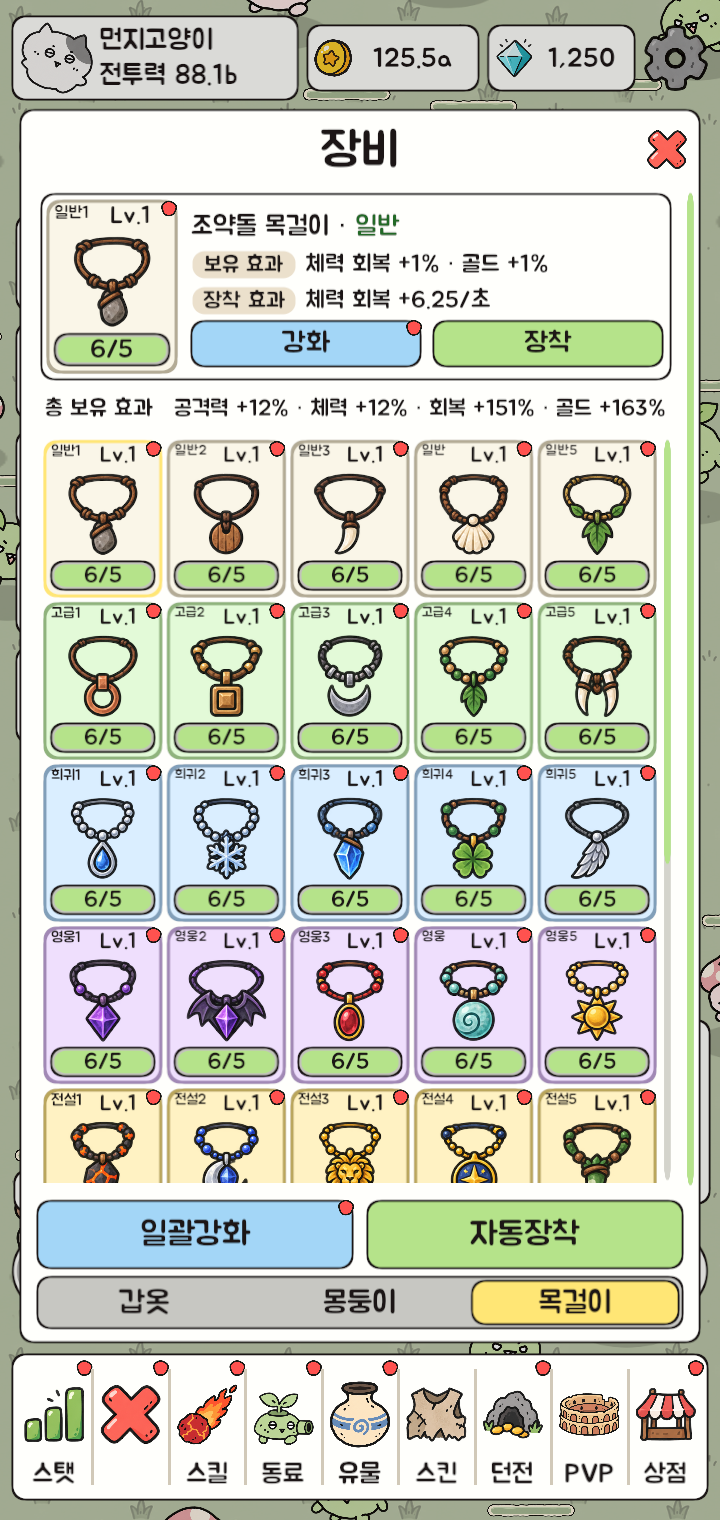
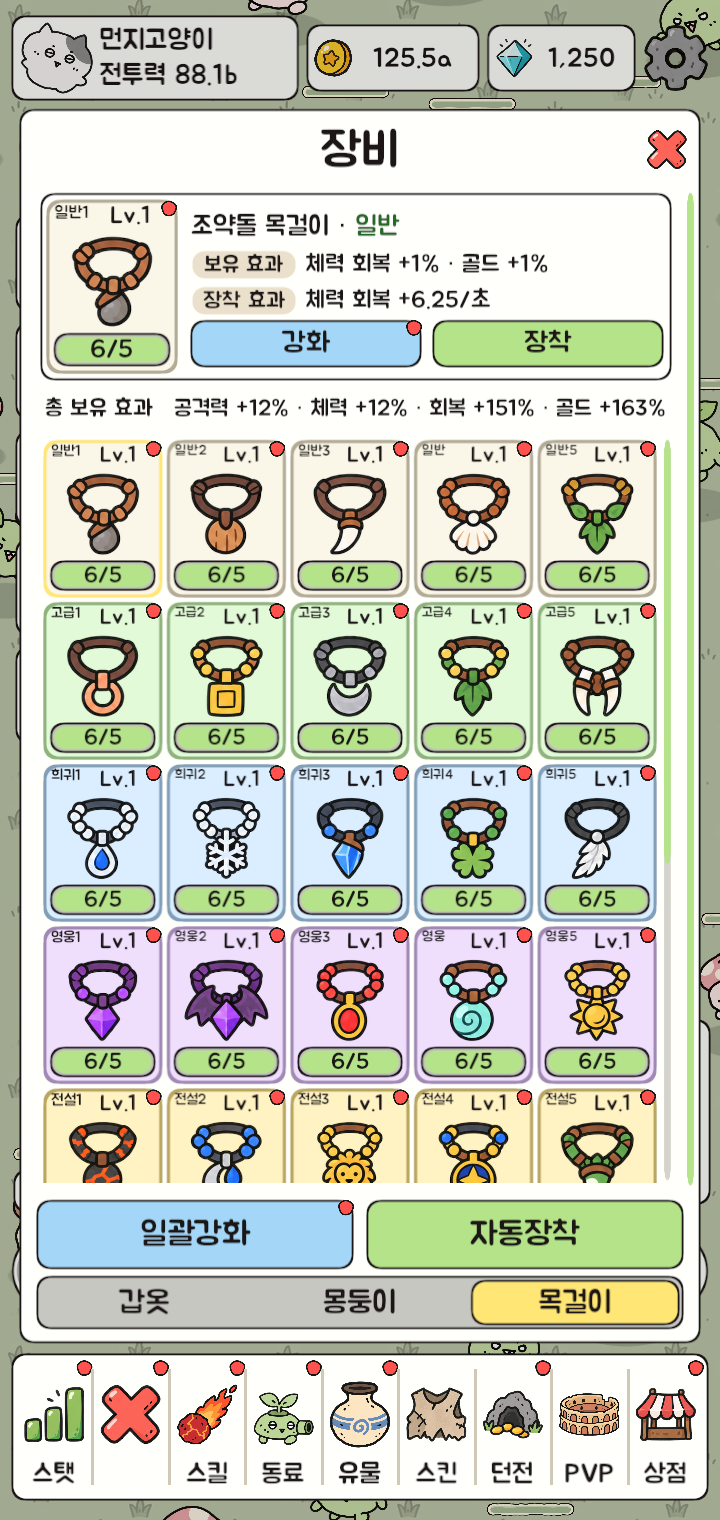
Record necklace and skill window CI validation

diff --git a/Documentation/UI/equipment-skins-growth.md b/Documentation/UI/equipment-skins-growth.md
@@ -113,3 +113,5 @@
 - 첨부된 오류는 저장 공간 부족이 아닌 메모리 할당 실패. `Editor-prev.log`에서 1,560,359,378바이트 요청이 `GUIStyle.DrawContent → EditorGUILayout.TextField → Odin StringDrawer → DoodleSkillTestWindow.SkillRow` 표시 경로에서 실패한 것을 확인. 검사 당시 C 드라이브 약 153GiB 및 물리 메모리 약 34GiB 여유. 당시 메모리 상태나 최초 손상 원인을 확정한 것은 아님.
 - 스킬 테스트 창의 Odin 속성 트리를 기본 EditorWindow로 교체. 캐시한 길이 제한 이름과 썸네일을 사용하고 보이는 행만 그림. 반복 새로고침/스크롤/리페인트, 긴 이름과 잘못된 등급, 기존 발동 및 기본 공격 버튼을 회귀 검증. 기존 메모리 오류 자체를 재현한 검증은 아님.
 - 기존 저장 파일 및 밸런스 편집은 보존. 오류 후 로그에서 새 에셋 재임포트와 컴파일 완료를 확인.
+
+- 수정 코드 `6686de3`: [CI 36041551727](https://github.com/kuzuni/20260920/actions/runs/36041551727), **5/5 통과** (42.948초). 36종 연결 검사, 장비 효과, 전체 스킬 테스트 발동, 기본 공격 토글 및 창 리페인트 확인. 최신 [게임 화면](equipment-skins/necklace-equipment.png)으로 교체하고 시각 검토 완료.
